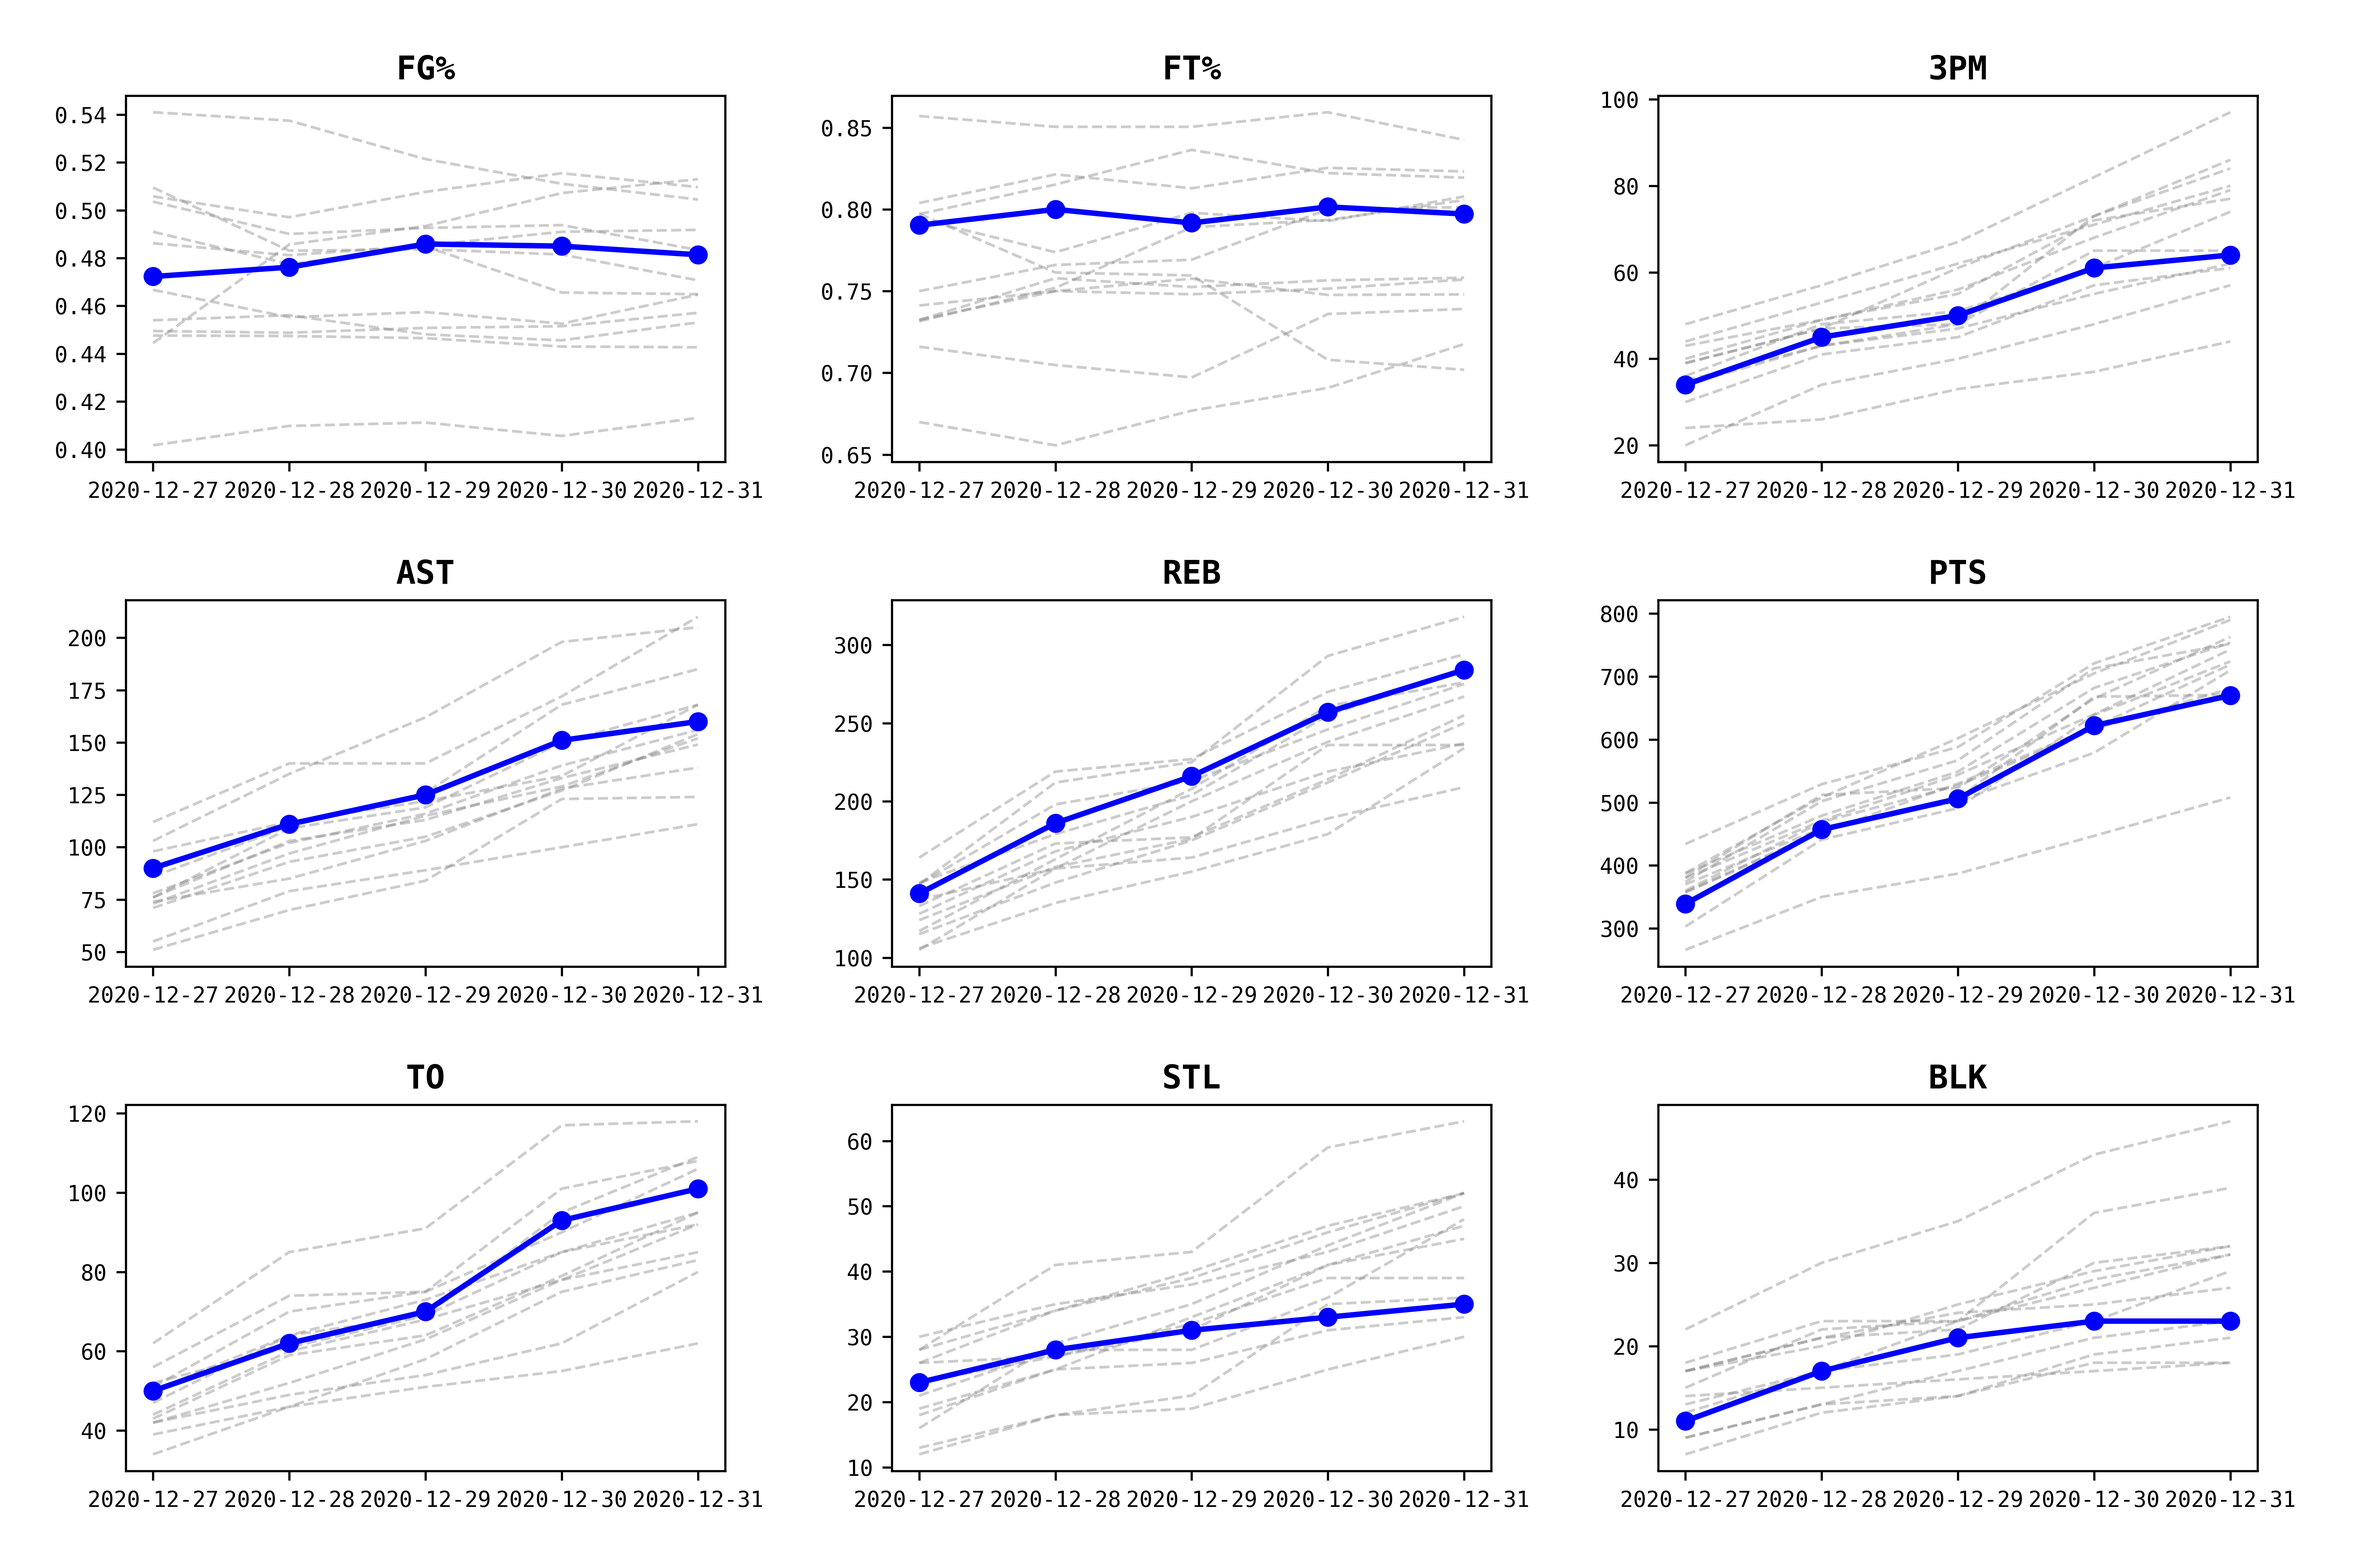
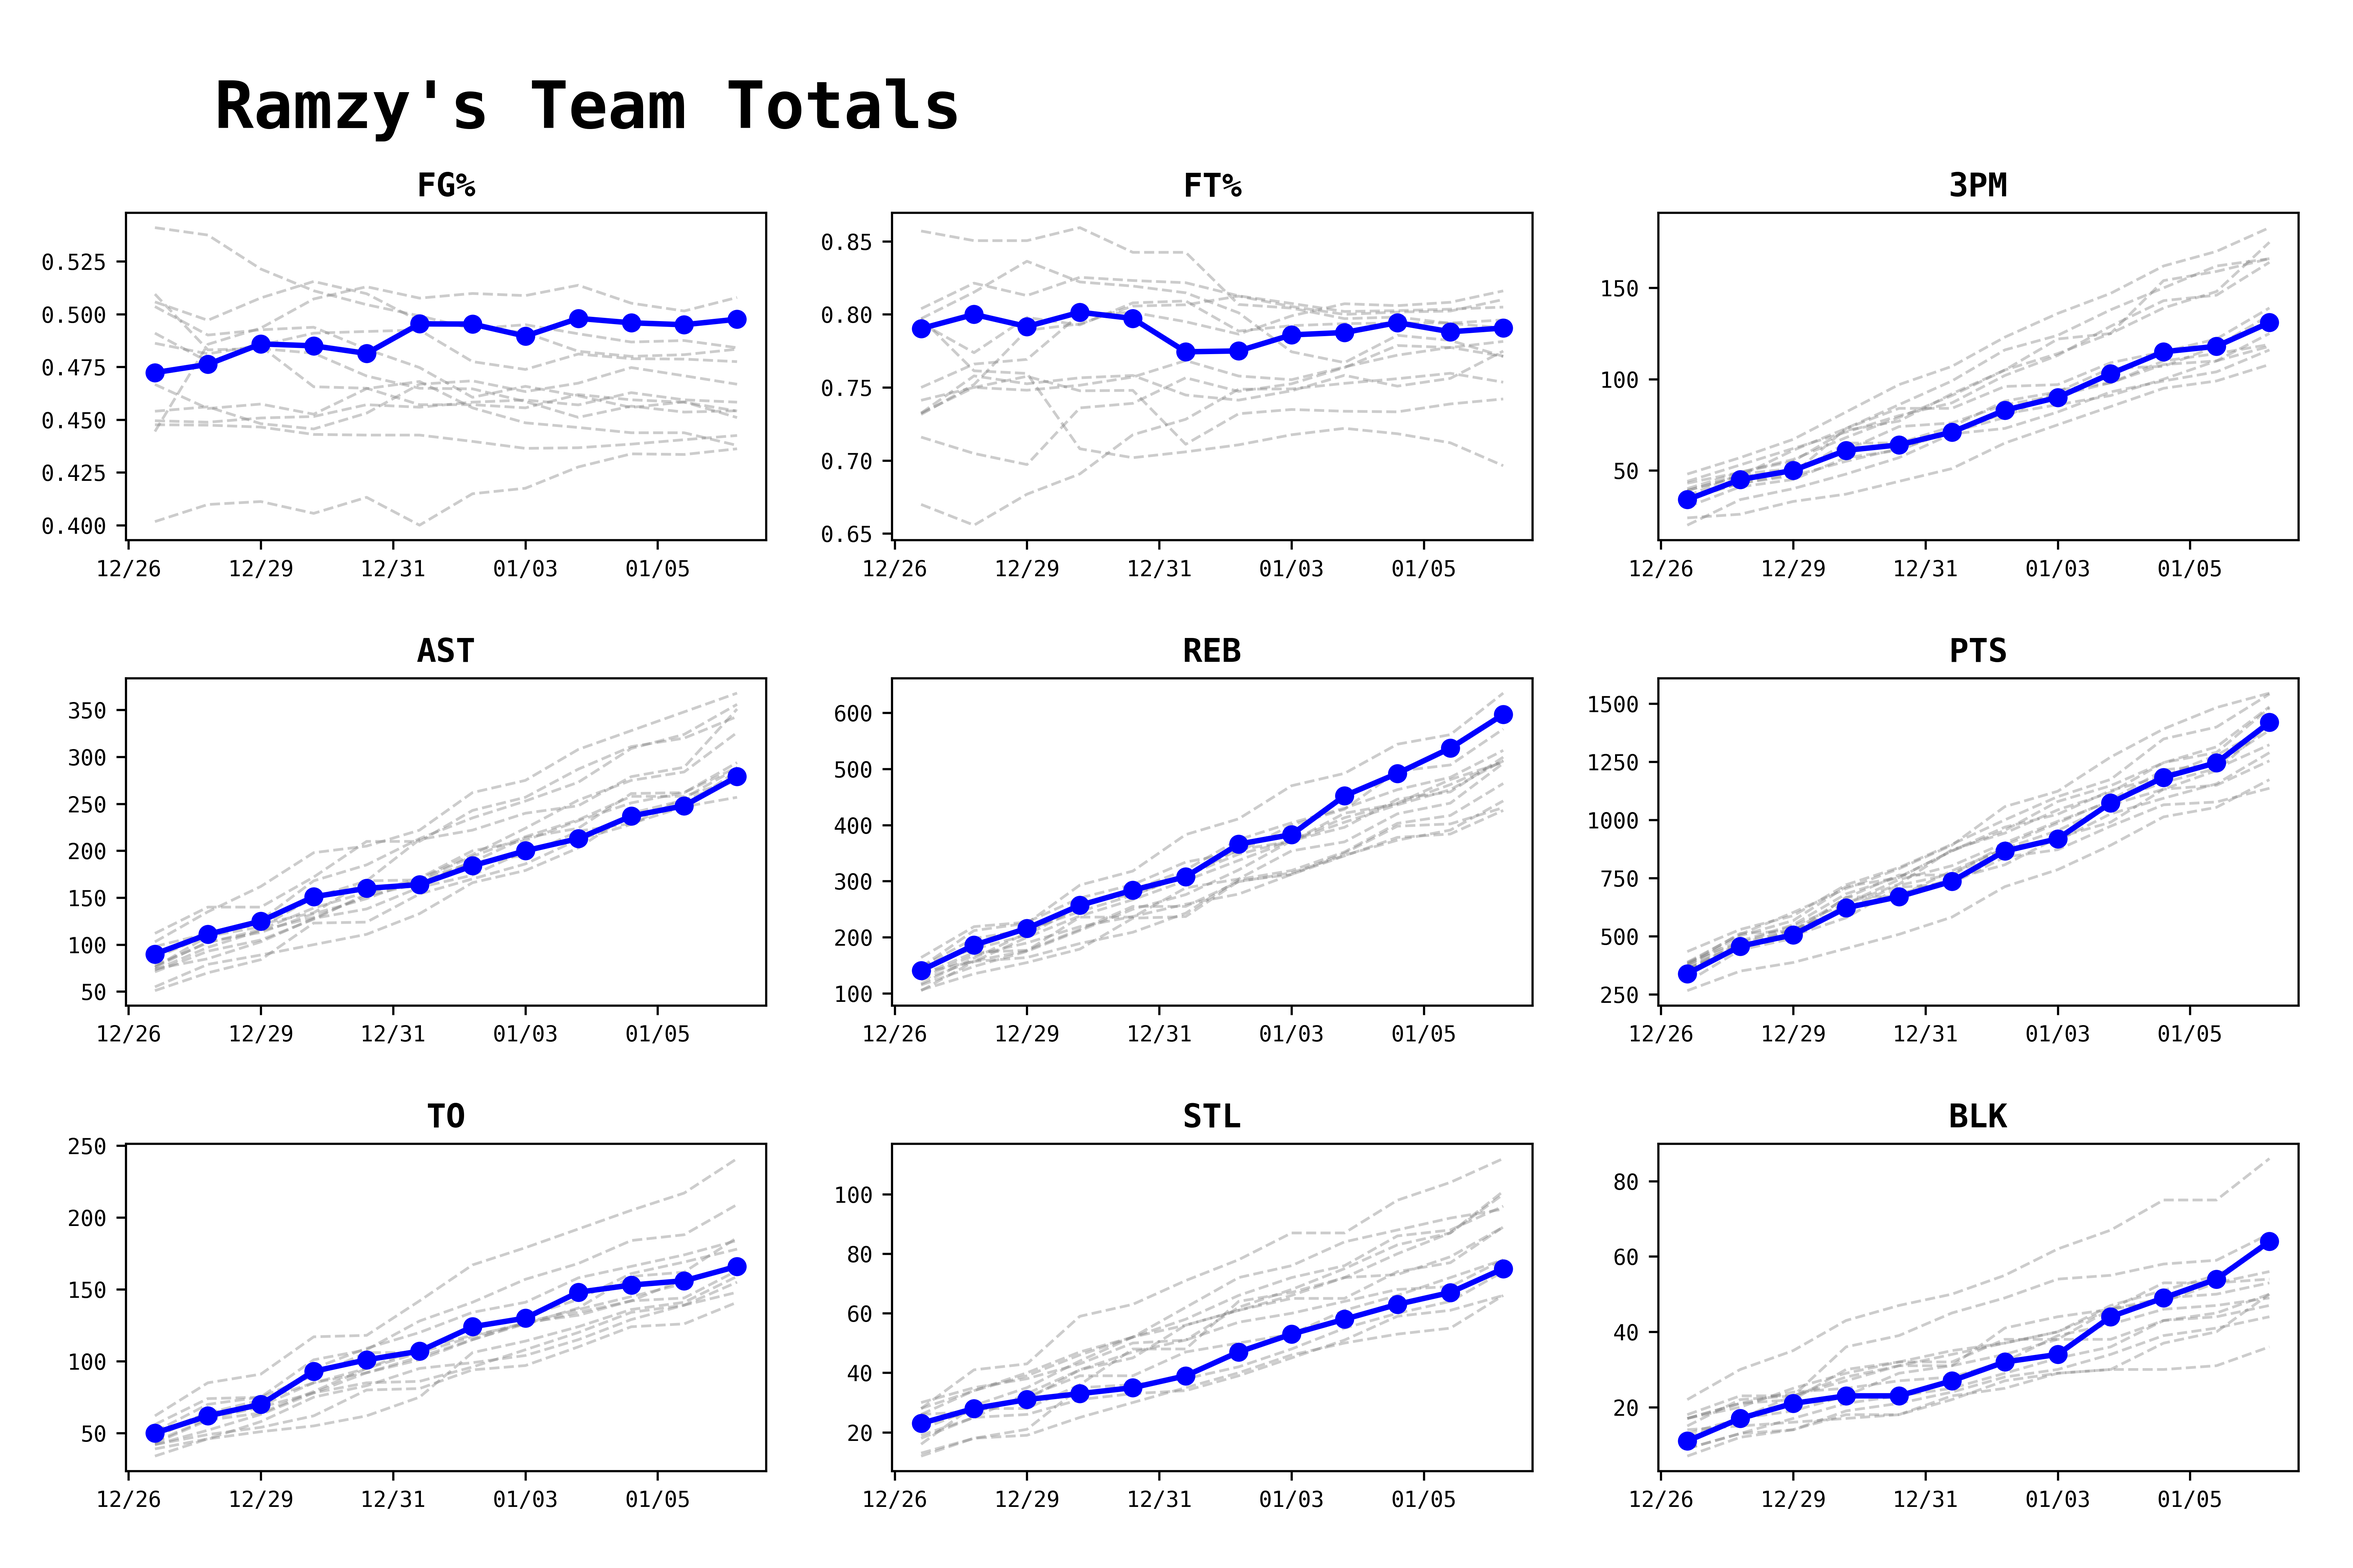
added flask app

diff --git a/static/css/main.css b/static/css/main.css
@@ -16,13 +16,24 @@
 
   h1 {
   font-family: 'JetBrainsMono';
-    font-weight: 600;
-    line-height: 0px;
+    font-weight: 800;
+    line-height: 3px;
 }
 
  body {
   font-family: 'Helvetica';
+    font-size: 12px;
     font-weight: 100;
-    line-height: 0px;
+    line-height: 10px;
+    display: block; 
+/*    color: $light-font-color
+*/}
+ 
+ p {
+  font-family: 'Helvetica';
+    font-size: 12px;
+    font-weight: 100;
+    line-height: 10px;
+    display: block; 
 /*    color: $light-font-color
 */}

diff --git a/templates/tools.html b/templates/tools.html
@@ -6,7 +6,7 @@
 
 {% block body %}
 
-<img src="{{ url_for('static', filename='standings.png')}}" align="middle">
+<img src="{{ url_for('static', filename='standings.png')}}" align="middle" width="900" height="600">
 
 
 {% endblock %}

diff --git a/src/charts.py b/src/charts.py
@@ -3,19 +3,18 @@ from datetime import datetime
 import pandas as pd 
 import os
 import matplotlib.pyplot as plt
+import matplotlib.dates as mdates
 
-
-def create_subplot(owner_name = "Ramzy"):
-	# parameters
-	data_folder = '../data'
-	output_folder = '../static'
-
-	today = datetime.today().strftime('%Y-%m-%d')
+# this functions creates the dataset
+def league_standings(data_folder = '../data', output_folder = '../'):
 
 	# initiate empty dataframe
 	df = pd.DataFrame()
+	
+	# today's date
+	today = datetime.today().strftime('%Y-%m-%d')
 
-	# load all data into one df
+	# load historical data into one df
 	for file in os.listdir(data_folder):
 		raw = pd.read_csv(os.path.join(data_folder, file))
 		df = df.append(raw).sort_values(by = ['date', 'Rk'])
@@ -25,20 +24,35 @@ def create_subplot(owner_name = "Ramzy"):
 	df['Team'] = df.Team.str.split().str.get(0) # get first name
 	df['Team'] = df.Team.str.capitalize()
 
-	# set inex
+	# tidy
 	df.sort_values(['Team', 'date'], inplace = True)
 	df.set_index(['Team', 'date'], inplace = True)
 
-	# export to csv
-	df.to_csv('latest.csv', index = True)
+	# export 
+	df.to_csv(os.path.join(output_folder, 'latest.csv'), index = True)
+
+	return df
+
+
+def create_subplot(file_name, data_folder = "../data", owner_name = "Ramzy", output_folder = '../static'):
+	
+	df = league_standings(data_folder = data_folder)
+	if file_name == 'standings_per_game.png':
+
+		# convert stats to per game
+		categories = ['3PM', 'AST', 'REB', 'PTS', 'TO', 'STL', 'BLK']
+
+		for cat in categories:
+			df[cat] = df[cat] / df['GP']
 
 	# for chart, i need to reset index
 	df.reset_index(inplace = True)
-	
-	# format date
-	# df['date'] = df['date'].datetime.strftime('%m/%d')
+	df.info()
 
-	# group data set by team
+	# format date
+	df['date'] = df['date'].astype('datetime64[ns]')
+
+	# group data set by team 
 	grp = df.groupby('Team') 
 	for name, group in grp:
 		print(name)
@@ -48,15 +62,12 @@ def create_subplot(owner_name = "Ramzy"):
 
 	# ========= BEGIN PLOTTING ========= #
 
-	# set font and themes
-	# plt.style.use('seaborn-whitegrid')
-	# csfont = {'fontname':'Arial'}
-	# hfont = {'fontname':'Helvetica'}
 	plt.rcParams["font.family"] = "monospace"
 	plt.rc('xtick', labelsize=8) 
 	plt.rc('ytick', labelsize=8) 
 	# set figure size
 	plt.figure(figsize = (12,8), dpi = 150)
+
 
 	# loop over categories to create subplots
 	for i, category in enumerate(categories, 1):
@@ -66,6 +77,16 @@ def create_subplot(owner_name = "Ramzy"):
 
 		# grey lines
 		for name, group in grp:   
+			
+			# set dates in MM/DD format
+			ax = plt.gca()
+			formatter = mdates.DateFormatter("%m/%d")
+			ax.xaxis.set_major_formatter(formatter)
+
+			# set x-axis so that it always shows 6 evenly-distributed ticks
+			ax.xaxis.set_major_locator(plt.MaxNLocator(6))
+
+			# plot
 			plt.plot(group.date, group[category], marker='', color='grey', 
 				linewidth=1, linestyle = '--', alpha=0.4, label = name)
 		    # plt.text(name, horizontalalignment='left', size='small', color='grey')
@@ -87,14 +108,57 @@ def create_subplot(owner_name = "Ramzy"):
 		plt.title(category, loc = 'center', fontsize = 12, fontweight = 'bold')
 
 	# increase space between subplots
+	if file_name == 'standings_per_game.png':
+		plt.suptitle(owner_name + "'s Team Stats Per Game", fontsize = 24, x = .25, y = .95, fontweight = 'bold')
+	else:
+		plt.suptitle(owner_name + "'s Team Totals", fontsize = 24, x = .25, y = .95, fontweight = 'bold')
+
 	plt.tight_layout(pad=2.0)
 	# plt.title("Ya 3ayni Standings", loc = 'left', fontsize = 24, fontweight = 'bold')
-	plt.savefig(os.path.join(output_folder, 'standings.png'), dpi = 600)
+	plt.savefig(os.path.join(output_folder, file_name), dpi = 600)
 
 ##
 # plt.clear()
 # fig, ax = plt.subplots(df, sharex = True)
 
+# def stats_per_game(df, owner_name = "Ramzy"):
+	
+# 	# convert stats to per game
+# 	categories = ['3PM', 'AST', 'REB', 'PTS', 'TO', 'STL', 'BLK']
+
+# 	for cat in categories:
+# 		df[cat] = df[cat] / df['GP']
+
+# 	# show per game stats table
+# 	print(df)
+# 	return df
+	# df_norm =(df-df.min())/(df.max()-df.min())
+	# df_norm.reset_index('date', inplace = True)
+
+	# # df_normalized = df_normalized.loc[df_normalized.Team == "Ramzy"]
+	# categories = ['FG%', 'FT%', '3PM', 'AST', 'REB', 'PTS', 'TO', 'STL', 'BLK']
+
+	# # keep relevant categories
+	# df_norm = df_norm[categories]
+	# df = df_norm.transpose()
+
+	# # plot
+	# plt.rcParams["font.family"] = "monospace"
+	# plt.rc('xtick', labelsize=8) 
+	# plt.rc('ytick', labelsize=8) 
+	# # set figure size
+	# fig, ax = plt.subplots(figsize=(12, 6), tight_layout=True)
+	# for owner in owners:
+	# 	df[owner].plot(kind="bar", ax=ax, color ='none', edgecolor = 'black', width = 0.5, label = owner)
+
+	# # for name in df_normalized.Team:
+	# # plt.bar(df_normalized, height = color='#b5ffb9', edgecolor='white', width=barWidth)
+	# # df.plot.bar(color ='grey', edgecolor = 'black')
+	# ax.axes.yaxis.set_visible(False)
+	# plt.show()
 
 if __name__ == "__main__":
-	create_subplot()
+	
+	create_subplot(file_name = 'standings.png')
+	create_subplot(file_name = 'standings_per_game.png')
+	# stats_per_game()

diff --git a/app.py b/app.py
@@ -1,5 +1,6 @@
 from flask import Flask, render_template, request, url_for
 from src.charts import create_subplot
+import os
 
 app = Flask(__name__)
 
@@ -11,7 +12,9 @@ def index():
 def tools():
 	if request.method == 'POST':
 		owner_name = request.form['name']
-		# create_subplot(owner_name)
+		create_subplot(data_folder = 'data', owner_name = owner_name, 
+			file_name = 'standings.png', output_folder = 'static')
+		# sleep(2)
 		return render_template('tools.html')
 	else:
 		return render_template('error.html')
